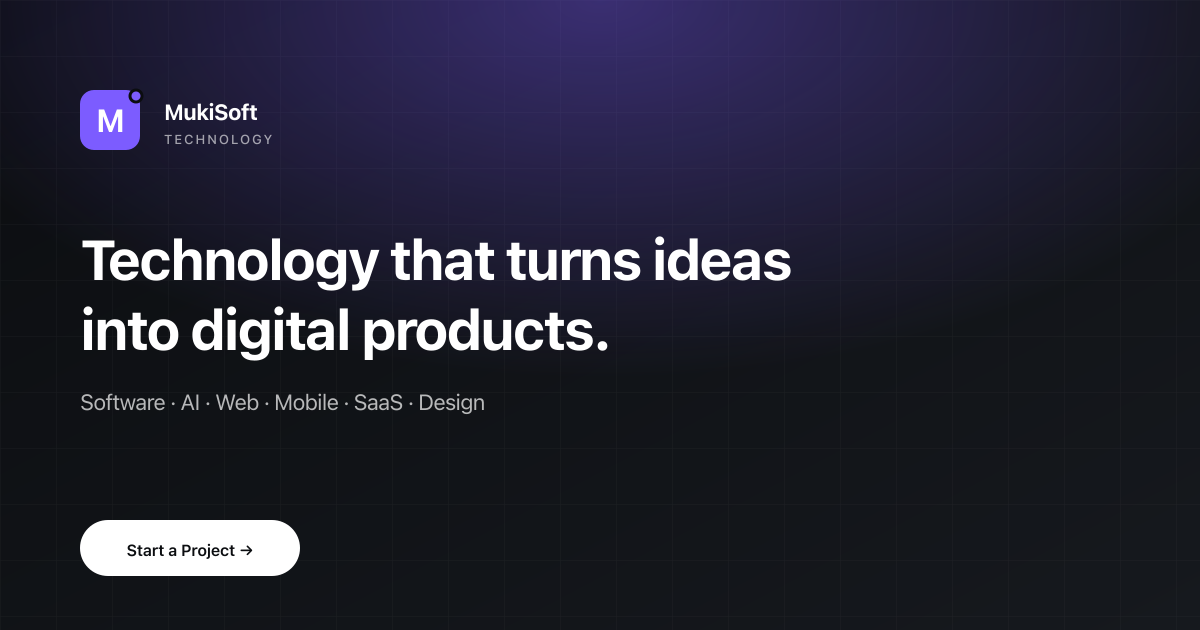
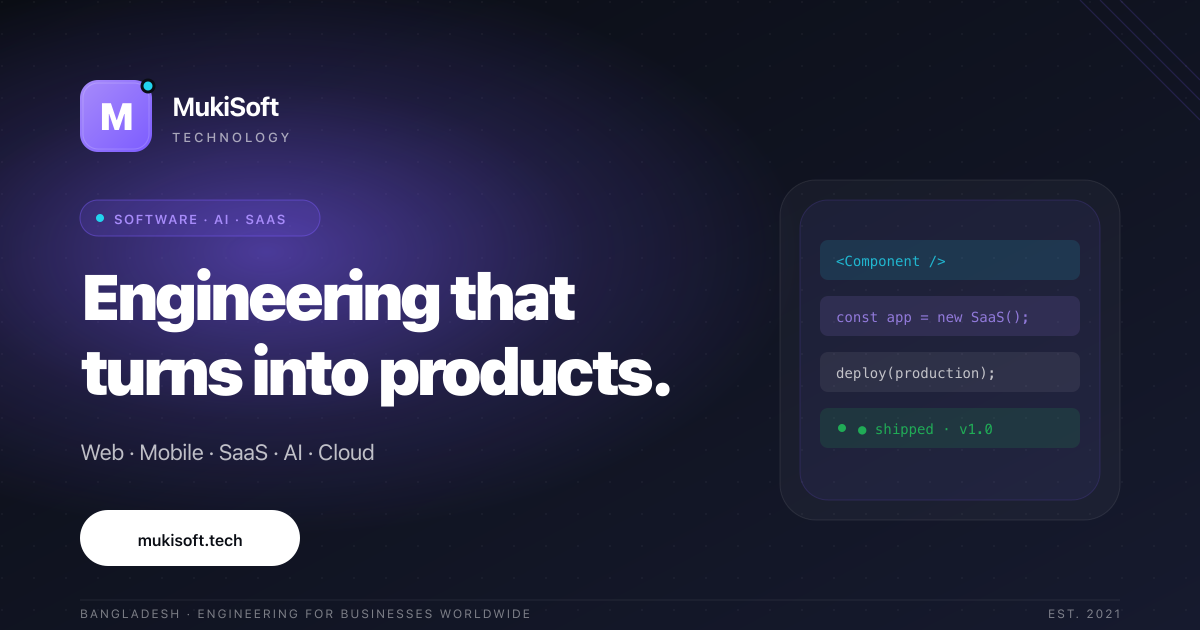
Premium OG preview: redesign and verify across all platforms
New og.svg: professionally-designed 1200x630 with MukiSoft branding:
- Dark navy gradient background with violet glow halo
- Logo mark (M monogram with cyan accent dot)
- 'SOFTWARE . AI . SAAS' eyebrow tag
- Bold two-line headline: 'Engineering that turns into products.'
- Code-block visual on the right (Component/SaaS/deploy/shipped)
- Domain CTA pill (mukisoft.tech)
- Footer hairline with location + founding year
- 1200x630 PNG (176KB) + JPG (94KB) generated

Conventions:
- app/[locale]/opengraph-image.png + twitter-image.png: Next.js auto-
  detects these and emits og:image + twitter:image meta tags
- app/opengraph-image.png + twitter-image.png (root): so the bare /
  redirect page also has OG images attached by Next.js convention

Layout:
- Removed the duplicated third image entry — it was a relative path
  that resolved to the same URL as the PNG, no value
- Cleaned up the comment block explaining which scraper picks which
  entry from the array

diff --git a/app/[locale]/layout.tsx b/app/[locale]/layout.tsx
@@ -96,11 +96,15 @@ export async function generateMetadata({
       // are required by Facebook's crawler for a large preview card —
       // without them it serves a tiny thumbnail (or none at all).
       //
-      // We use absolute URLs built from a STATIC DOMAIN constant as the
-      // ultimate fallback so the og:image is never a relative path.
-      // Social crawlers (notably WhatsApp and Telegram) do NOT resolve
-      // relative URLs against `metadataBase` — they want a full
-      // `https://…` URL in the raw HTML.
+      // Facebook picks the LAST entry for og:image, so we list the
+      // admin-uploaded custom image (if present in the DB) LAST.
+      // Crawlers that honour array order (LinkedIn, Slack) get the
+      // PNG first, which is what we want.
+      //
+      // We use absolute URLs built from a STATIC DOMAIN constant so
+      // the og:image is never a relative path. Social crawlers (notably
+      // WhatsApp and Telegram) do NOT resolve relative URLs against
+      // `metadataBase` — they want a full `https://…` URL in the raw HTML.
       images: [
         {
           url: `${baseUrl}/og.png`,
@@ -114,18 +118,6 @@ export async function generateMetadata({
           url: `${baseUrl}/og.jpg`,
           secureUrl: `${baseUrl}/og.jpg`,
           type: 'image/jpeg',
-          width: 1200,
-          height: 630,
-          alt: `${company.displayName} — ${company.tagline}`,
-        },
-        {
-          // Third fallback: admin-uploaded custom image from Supabase
-          // (if the DB has one, this entry appears first to scrapers
-          // that honour array ordering — Facebook picks the last entry
-          // for og:image, so we list the static asset last).
-          url: cfg.ogImage.startsWith('http') ? cfg.ogImage : `${baseUrl}${cfg.ogImage}`,
-          secureUrl: cfg.ogImage.startsWith('http') ? cfg.ogImage : `${baseUrl}${cfg.ogImage}`,
-          type: 'image/png',
           width: 1200,
           height: 630,
           alt: `${company.displayName} — ${company.tagline}`,
